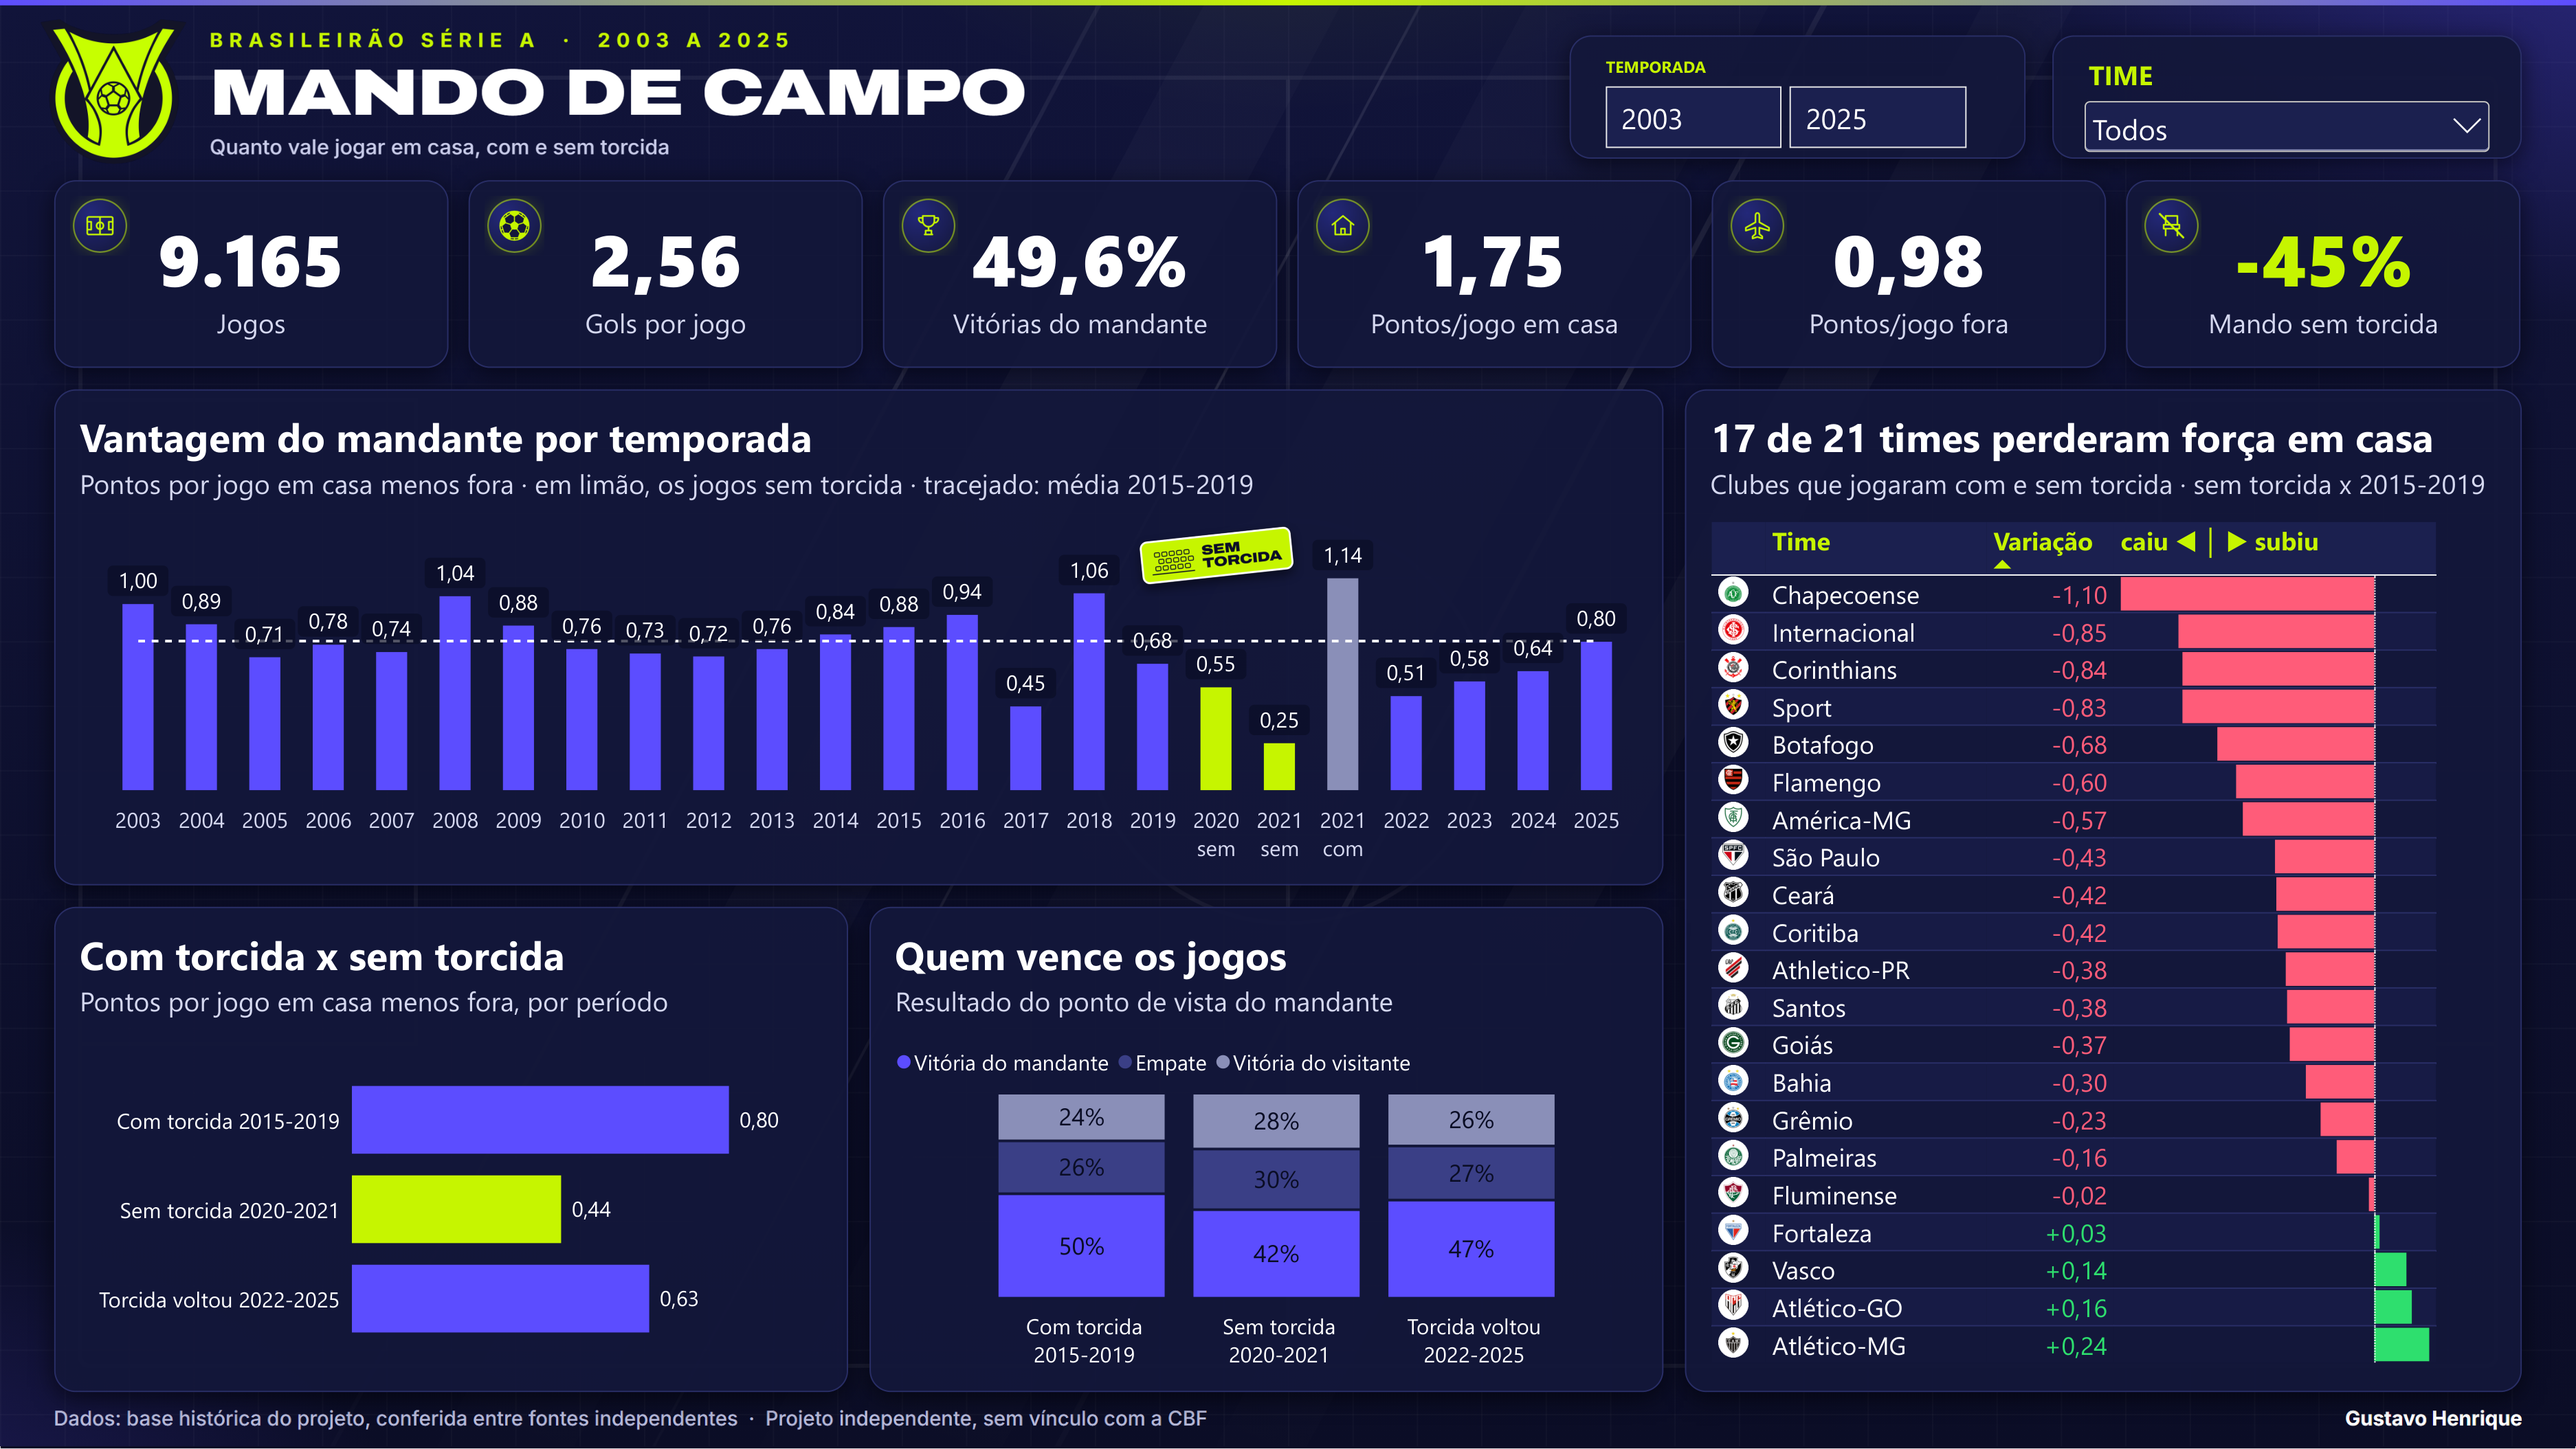
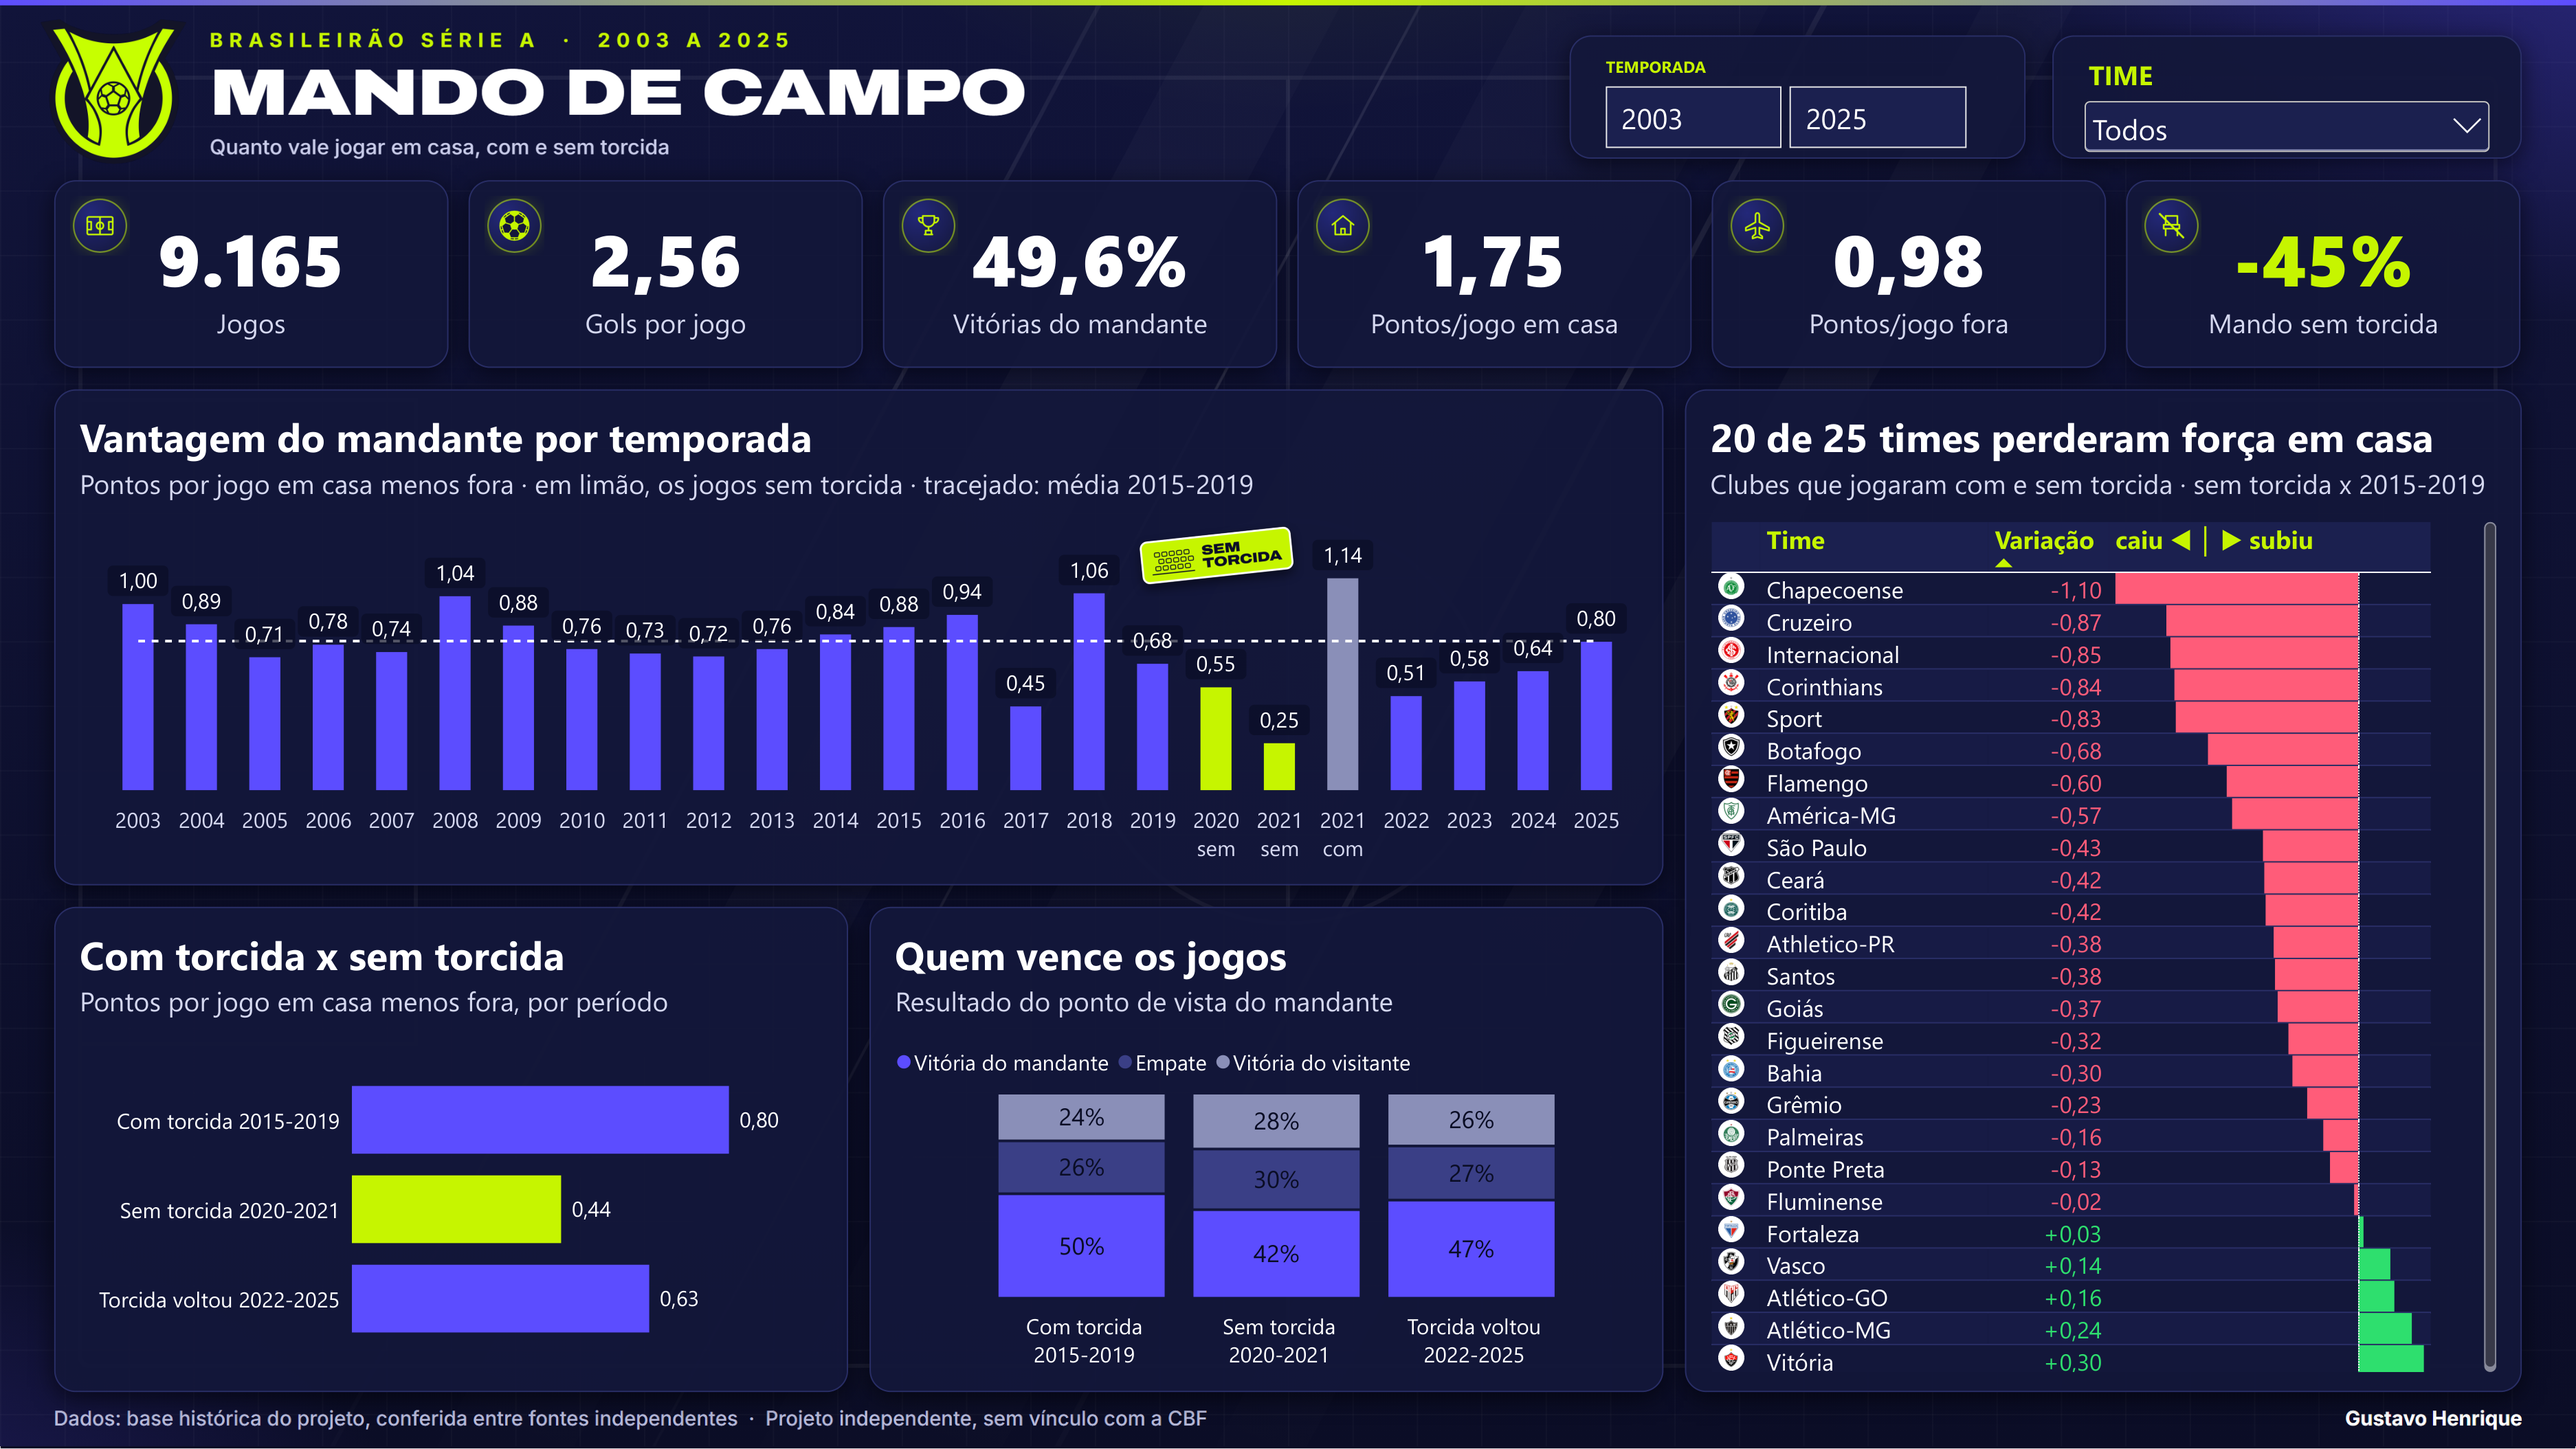
Painel com os 4 tradicionais da Série B na tabela por time
Tabela sem marca (B); título conta as linhas da tabela (20 de 25).
Números principais seguem só com a Série A. conferir_painel.py confere
também a variação de cada tradicional e o 20 de 25 (17 conferências OK).

Changed region(s): [[0.6555, 0.3698, 0.9677, 0.9554], [0.6555, 0.2774, 0.6868, 0.3082]]

diff --git a/dashboards/powerbi/gerar_pbip.py b/dashboards/powerbi/gerar_pbip.py
@@ -72,7 +72,6 @@ COLUNAS_TIMES = [
     ("ultima_temporada", "int64", "Int64.Type", "0", None),
     ("temporadas_na_serie_a", "int64", "Int64.Type", "0", None),
     ("escudo", "string", "type text", None, None),
-    ("nome_tabela", "string", "type text", None, None),
 ]
 COLUNAS_JOGOS_B = [
     ("jogo_id", "string", "type text", None, None),
@@ -159,11 +158,17 @@ MEDIDAS = [
      "VAR sb = [Vantagem sem torcida Série B] VAR s = IF ( ISBLANK ( sa ), sb, sa ) "
      "RETURN IF ( ISBLANK ( a ) || ISBLANK ( s ), BLANK (), s - a )",
      "+0.00;-0.00;0.00", "Times",
-     "Como Variação sem torcida, mas os tradicionais da Série B usam a B sem torcida. O título e o -45% não usam esta."),
+     "Como Variação sem torcida, mas os tradicionais da Série B usam a B sem torcida. O -45% e o 0,44 não usam esta."),
+    ("Times que caíram na tabela",
+     "COUNTROWS ( FILTER ( VALUES ( times[time_id] ), [Variação na tabela] < 0 ) )",
+     "0", "Times", "Como Times que caíram, contando também os tradicionais da Série B (conferência: 20 de 25)."),
+    ("Times na tabela",
+     "COUNTROWS ( FILTER ( VALUES ( times[time_id] ), NOT ISBLANK ( [Variação na tabela] ) ) )",
+     "0", "Times", "Linhas da tabela por time: 21 da Série A e 4 tradicionais da Série B."),
     ("Barra da variação", "[Variação na tabela]", "+0.00;-0.00;0.00", "Times",
      "Mesma variação, só para desenhar a barra de dados (sem texto) ao lado do número."),
     ("Título dos times",
-     'FORMAT ( [Times que caíram], "0" ) & " de " & FORMAT ( [Times comparados], "0" ) '
+     'FORMAT ( [Times que caíram na tabela], "0" ) & " de " & FORMAT ( [Times na tabela], "0" ) '
      '& " times perderam força em casa"',
      None, "Times", "Título do gráfico por time, montado com as medidas (nenhum número digitado)."),
     ("Cor da temporada",
@@ -513,7 +518,7 @@ def pagina_principal() -> Pagina:
         "query": {
             "queryState": {"Values": {"projections": [
                 proj_coluna("times", "escudo", " "),
-                proj_coluna("times", "nome_tabela", "Time"),
+                proj_coluna("times", "nome", "Time"),
                 proj_medida("Variação na tabela", "Variação"),
                 proj_medida("Barra da variação", "caiu  ◀ │ ▶  subiu"),
             ]}},
@@ -532,7 +537,7 @@ def pagina_principal() -> Pagina:
             "total": props(totals=L("false")),
             "grid": props(gridHorizontal=L("true"), gridHorizontalColor=cor(BORDA), rowPadding=num(0),
                           imageHeight=num(19)),
-            "columnWidth": [largura("times.escudo", 36), largura("times.nome_tabela", 170),
+            "columnWidth": [largura("times.escudo", 36), largura("times.nome", 170),
                             largura("_Medidas.Variação na tabela", 90),
                             largura("_Medidas.Barra da variação", 240)],
             # Barra de dados nativa: zero no meio, vermelho à esquerda (caiu), verde à direita (subiu)
@@ -541,7 +546,7 @@ def pagina_principal() -> Pagina:
                     "positiveColor": cor(ALTA), "negativeColor": cor(QUEDA), "axisColor": cor(BRANCO),
                     "reverseDirection": L("false"), "hideText": L("true"), "totalMatchingOption": L("1L")}},
                 "selector": {"metadata": "_Medidas.Barra da variação"}}],
-        }}, {**cabecalho("x", "Sem torcida x 2015-2019 · (B) tradicionais que jogaram a Série B sem torcida"),
+        }}, {**cabecalho("x", "Clubes que jogaram com e sem torcida · sem torcida x 2015-2019"),
              "title": props(show=L("true"), text=titulo_times, fontColor=cor(BRANCO), fontSize=num(22),
                             bold=L("true"), titleWrap=L("true"))})
 

diff --git a/dashboards/powerbi/tools/conferir_painel.py b/dashboards/powerbi/tools/conferir_painel.py
@@ -20,15 +20,26 @@ DAX = """EVALUATE ROW(
   "ppj_casa", [Pontos por jogo em casa], "ppj_fora", [Pontos por jogo fora],
   "vantagem", [Vantagem do mandante], "antes", [Vantagem com torcida 2015-2019],
   "sem", [Vantagem sem torcida], "variacao", [Mando sem torcida],
-  "times_cairam", [Times que caíram], "times_comparados", [Times comparados])"""
+  "times_cairam", [Times que caíram], "times_comparados", [Times comparados],
+  "cairam_na_tabela", [Times que caíram na tabela], "times_na_tabela", [Times na tabela])"""
+
+# Tradicionais da Série B: só eles têm variação na tabela sem ter na Série A
+DAX_B = """EVALUATE FILTER(
+  ADDCOLUMNS(VALUES(times[time_id]), "variacao", [Variação na tabela]),
+  NOT ISBLANK([Variação na tabela]) && ISBLANK([Variação sem torcida]))"""
+
+
+def consultar(dax: str) -> list[dict]:
+    with tempfile.NamedTemporaryFile("w", suffix=".dax", delete=False, encoding="utf-8") as f:
+        f.write(dax)
+    saida = subprocess.run(["powershell", "-NoProfile", "-File", str(Path(__file__).parent / "consultar.ps1"),
+                            "-DaxArquivo", f.name], capture_output=True, text=True, check=True).stdout
+    return [{k.split("[")[-1].strip("]"): v for k, v in linha.items()} for linha in json.loads(saida)]
 
 
 def main() -> None:
-    with tempfile.NamedTemporaryFile("w", suffix=".dax", delete=False, encoding="utf-8") as f:
-        f.write(DAX)
-    saida = subprocess.run(["powershell", "-NoProfile", "-File", str(Path(__file__).parent / "consultar.ps1"),
-                            "-DaxArquivo", f.name], capture_output=True, text=True, check=True).stdout
-    pbi = {k.strip("[]"): v for k, v in json.loads(saida)[0].items()}
+    pbi = consultar(DAX)[0]
+    pbi.update({f"B {linha['time_id']}": linha["variacao"] for linha in consultar(DAX_B)})
     r = json.loads((RAIZ / "analise" / "resultados_fase1.json").read_text(encoding="utf-8"))
     with conectar() as con, con.cursor() as cur:
         cur.execute("""select count(*), avg(gols_mandante + gols_visitante), avg((resultado = 'M')::int),
@@ -42,11 +53,15 @@ def main() -> None:
         "variacao": -r["diferencas_vantagem_pontos"]["sem_torcida_menos_2015_2019"]["queda_relativa"],
         "times_cairam": r["mesmo_time"]["times_com_queda"], "times_comparados": r["mesmo_time"]["times"],
     }
+    b = r["tradicionais_serie_b"]
+    esperado["cairam_na_tabela"] = esperado["times_cairam"] + sum(c["variacao"] < 0 for c in b.values())
+    esperado["times_na_tabela"] = esperado["times_comparados"] + len(b)
+    esperado.update({f"B {time}": c["variacao"] for time, c in b.items()})
     falhas = 0
     for k, e in esperado.items():
-        ok = abs(float(pbi[k]) - e) < 1e-9
+        ok = k in pbi and abs(float(pbi[k]) - e) < 1e-9
         falhas += not ok
-        print(f"{'OK     ' if ok else 'FALHOU '} {k:<18} painel={float(pbi[k]):.6f}  esperado={e:.6f}")
+        print(f"{'OK     ' if ok else 'FALHOU '} {k:<18} painel={float(pbi.get(k, 'nan')):.6f}  esperado={e:.6f}")
     sys.exit(1 if falhas else 0)
 
 

diff --git a/dashboards/powerbi/exportar_dados.py b/dashboards/powerbi/exportar_dados.py
@@ -62,8 +62,8 @@ TIMES = """select time_id, nome, uf, primeira_temporada, ultima_temporada, tempo
 from marts.dim_times where temporadas_na_serie_a > 0 order by nome"""
 
 # Clubes tradicionais (9+ temporadas na Série A desde 2003, na Série A em
-# 2015-2019) que jogaram a Série B no período sem torcida. Entram na tabela do
-# painel marcados com "(B)"; os números principais seguem só com a Série A.
+# 2015-2019) que jogaram a Série B no período sem torcida. Entram só na tabela
+# por time do painel; os números principais seguem só com a Série A.
 TRADICIONAIS_B = ("Cruzeiro", "Vitoria", "Figueirense", "Ponte Preta")
 
 JOGOS_TIME_B = f"""
@@ -108,7 +108,6 @@ def anexar_escudos(arquivo: Path) -> int:
         linhas = list(csv.DictReader(f))
     n = 0
     for linha in linhas:
-        linha["nome_tabela"] = linha["nome"] + (" (B)" if linha["time_id"] in TRADICIONAIS_B else "")
         png = pasta / f"{linha['time_id']}.png"
         linha["escudo"] = ""
         if png.exists():

diff --git a/dashboards/powerbi/README.md b/dashboards/powerbi/README.md
@@ -5,9 +5,16 @@
 Uma página (1920 x 1080) sobre a base histórica da Série A de 2003 a 2025:
 cartões de KPI, a vantagem do mandante por temporada com os jogos sem torcida
 em limão, a comparação com torcida x sem torcida, quem vence os jogos por
-período e, na coluna da direita, os 21 clubes que jogaram com e sem torcida,
+período e, na coluna da direita, 25 clubes que jogaram com e sem torcida,
 cada um contra ele mesmo (escudo, número e barra na mesma linha). Filtros de
 temporada e de time.
+
+A tabela por time junta os 21 clubes que estavam na Série A com e sem torcida
+e 4 tradicionais que passaram o período sem torcida na Série B (Cruzeiro,
+Vitória, Figueirense e Ponte Preta; para eles, Série A 2015-2019 contra Série
+B sem torcida). Por isso o título da tabela diz "20 de 25". Os números
+principais (0,44 sem torcida, -45%) e a conferência "17 de 21" usam só a Série
+A, porque para os 4 muda a divisão junto com a torcida.
 
 Tudo é gerado por script, em texto versionado (PBIP: modelo em TMDL,
 relatório em PBIR). Nenhum número é digitado à mão: todo valor sai de uma
@@ -77,3 +84,7 @@ sem torcida, variação, times que caíram e times comparados) bateram com
 `analise/resultados_fase1.json` e com contas feitas no CSV exportado das marts.
 `tools/conferir_painel.py` faz a mesma conferência contra o SQL quando o
 Postgres está no ar.
+
+Em 24/10/2026, com os tradicionais da Série B: `conferir_painel.py` passou nas
+17 conferências (as 11 de antes, "20 de 25" na tabela e a variação de cada um
+dos 4 clubes contra `tradicionais_serie_b` do JSON).
